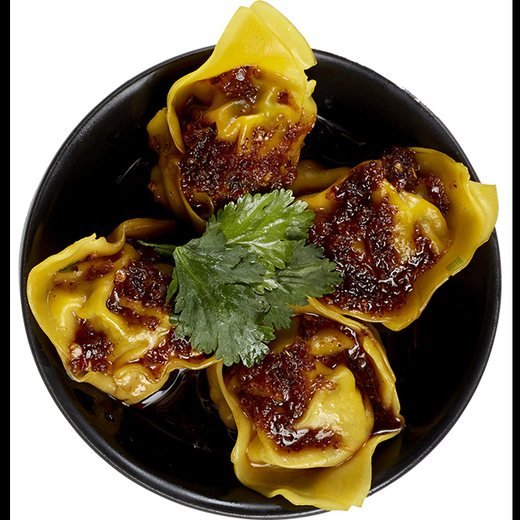
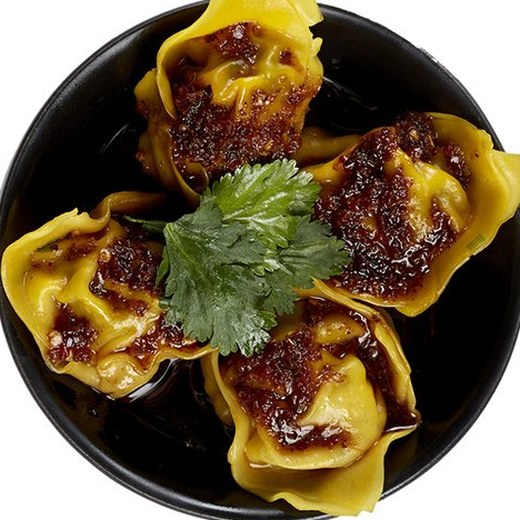
Re-crop the Xiaochi plate image so the circle sits on the bowl
Claude-Session: https://claude.ai/code/session_01KGb4Pfav3iP9zNuhfXLWCv

diff --git a/assets/js/menu-data.js b/assets/js/menu-data.js
@@ -38,7 +38,7 @@ window.BAOBAO_MENU = [
     id: "xiaochi",
     title: "Xiaochi",
     bg: "assets/img/xiaochi-dark.jpg",
-    plate: "assets/img/dishes/dumplings.jpg",
+    plate: "assets/img/dishes/dumplings.jpg?v=2",
     items: [
       { name: "Three-Cup Chicken", zh: "三杯雞", price: 14, img: "assets/img/dishes/three-cup-chicken.jpg",
         desc: "A classic Taiwanese dish, featuring tender chicken cooked in a savoury blend of soy sauce, sesame oil, and rice wine, with fresh basil for an aromatic finish." },
@@ -48,7 +48,7 @@ window.BAOBAO_MENU = [
         desc: "Crispy fried tofu, seasoned with a savoury mix of salt, pepper, and aromatic spices, offering a perfect balance of crunch and flavour in every bite." },
       { name: "Agedashi Tofu", zh: "揚出豆腐", price: 10, veg: true, img: "assets/img/dishes/agedashi-tofu.jpg",
         desc: "Crispy tofu in savoury dashi broth, topped with bonito flakes and spring onions for a delicious umami flavour." },
-      { name: "Chive and Chicken Dumplings", zh: "韭菜餃", price: 10, img: "assets/img/dishes/dumplings.jpg",
+      { name: "Chive and Chicken Dumplings", zh: "韭菜餃", price: 10, img: "assets/img/dishes/dumplings.jpg?v=2",
         desc: "Tender chicken and aromatic chives wrapped in a soft dumpling skin, served with XO sauce or Sichuan chilli oil." },
       { name: "Hakka Salted Pork", zh: "客家鹹豬肉", price: 12, img: "assets/img/dishes/hakka.jpg",
         desc: "A famous Hakka market snack: pork belly cured with salt and spices, roasted and sliced, best enjoyed with rice." }

diff --git a/menu.html b/menu.html
@@ -50,7 +50,7 @@
     </div>
     <div class="photo"><img src="assets/img/interior.jpg" alt="" loading="lazy"></div>
   </div>
-  <script src="assets/js/menu-data.js?v=3"></script>
+  <script src="assets/js/menu-data.js?v=4"></script>
   <script src="assets/js/main.js?v=3"></script>
 </body>
 </html>
